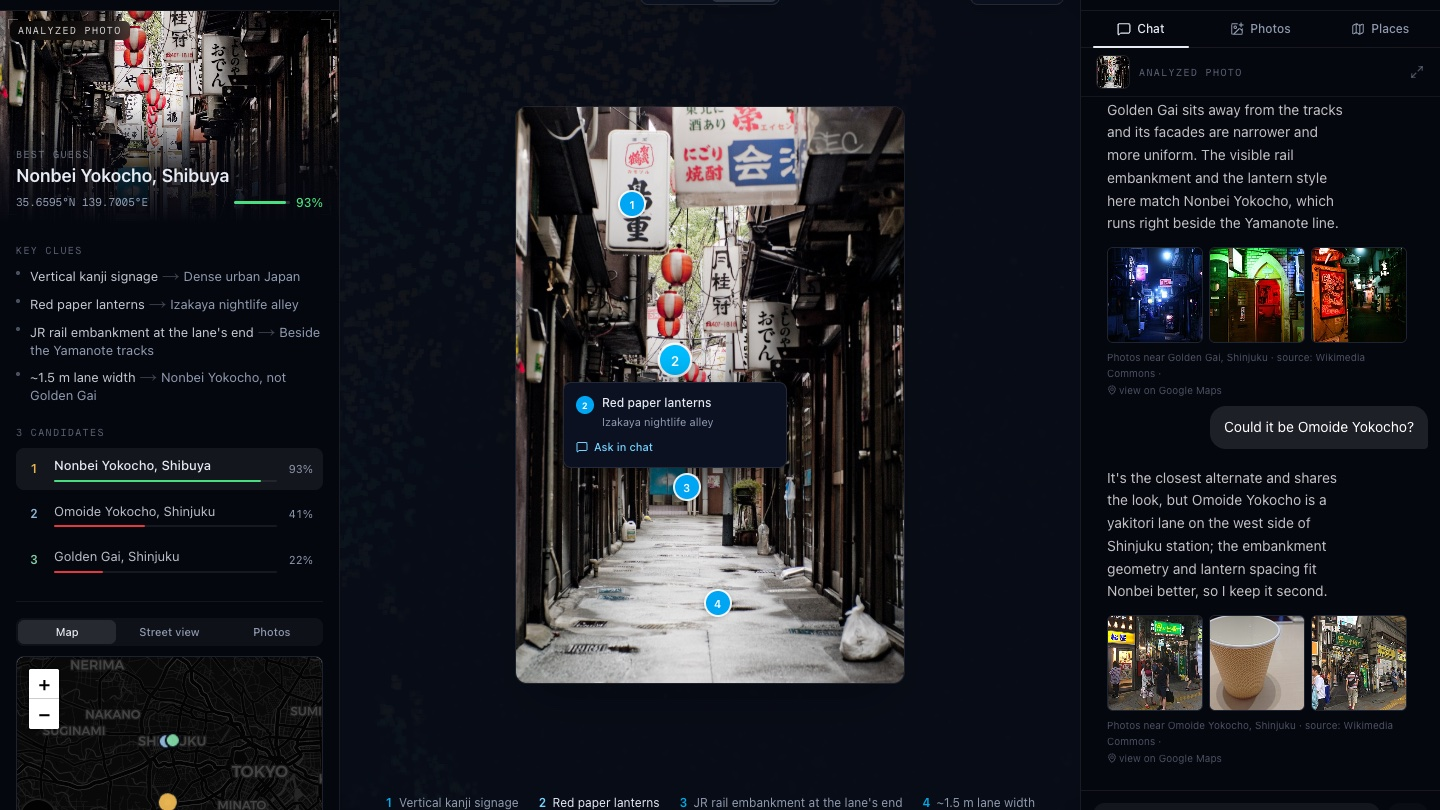
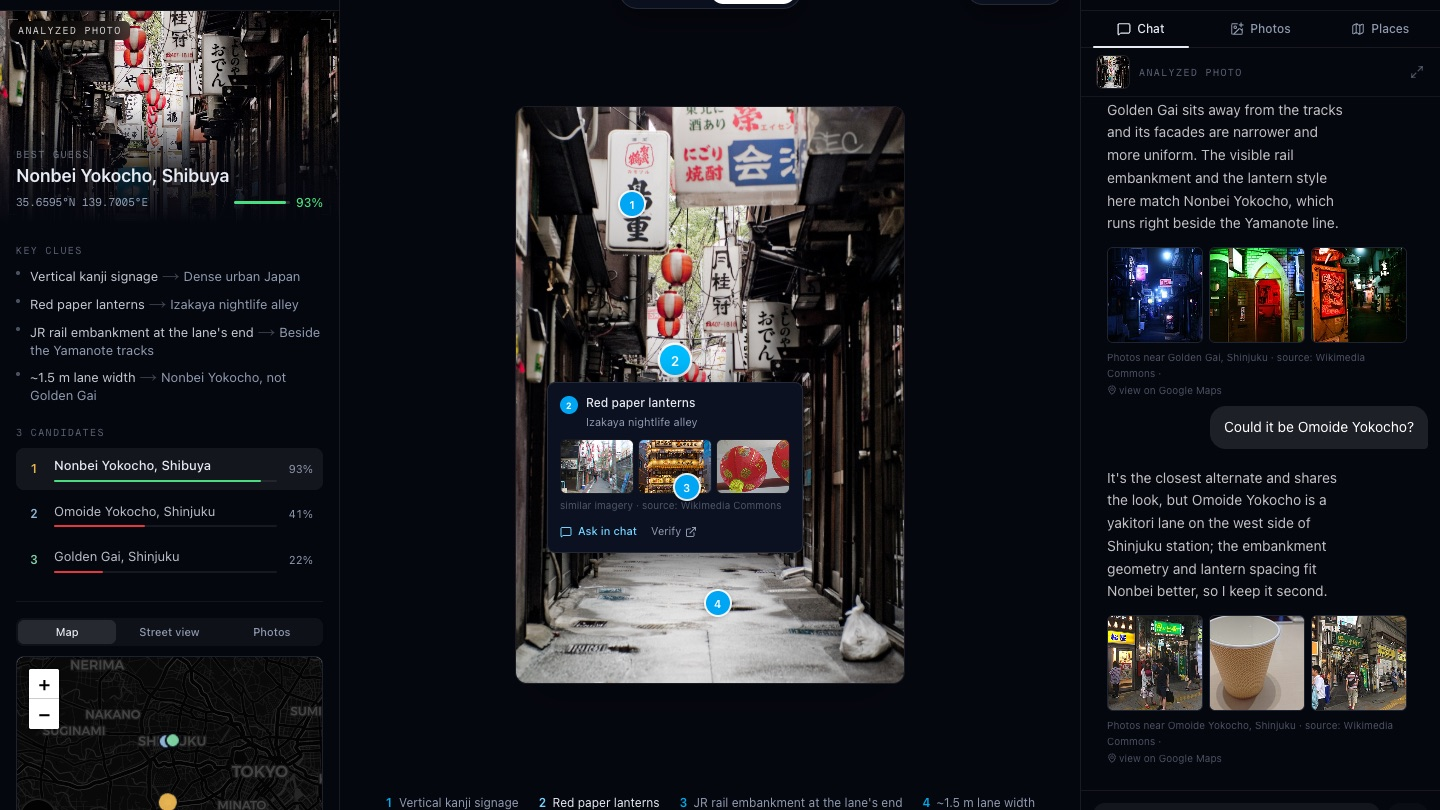
docs(readme): current pipeline description, reshot photo view

Changed region(s): [[0.375, 0.463, 0.5625, 0.7407], [0.5, 0.0, 0.5625, 0.0309]]

diff --git a/README.md b/README.md
@@ -13,7 +13,7 @@ AI-powered geolocation: upload a photo and the system predicts where it was take
 
 ![Example reasoning: the model's thinking streamed live, with sourced reference photos backing each candidate and the predicted location on the globe](images/ex1.png)
 
-![Photo view: every clue the model used is pinned on the analyzed image; users drop their own pins and ask about them, and clue mentions in chat link back to the pins](images/annotate.png)
+![Photo view: every clue the model used is pinned on the analyzed image with sourced reference imagery per clue; users drop their own pins and ask about them, and clue mentions in chat link back to the pins](images/annotate.png)
 
 ![Your world: past sessions pinned and linked on an interactive globe, with a session rail to jump back in](images/canvas.png)
 
@@ -28,9 +28,9 @@ rainbolt.ai is a retrieval-augmented geolocation pipeline. A photo flows through
 3. Pinecone retrieval. The embedding is queried against a Pinecone index that holds two namespaces:
    - `images`: CLIP embeddings of geotagged reference images, each carrying `{latitude, longitude}` metadata. Nearest neighbors give candidate coordinates. Image-to-image similarity scores are high (~0.7).
    - `features`: CLIP text embeddings of GeoGuessr-style clues (bollards, road-line styles, license plates, scripts, Street View car metadata, and so on), stored as `metadata['text']`. The image embedding is matched against these text vectors to surface human-readable evidence. Image-to-text scores are low (~0.19 to 0.28), so a lower threshold (~0.22) is used for this namespace.
-4. Gemini reasoning. The candidate coordinates and matched feature clues are handed to Gemini (via LangChain, `langchain_google_genai`). Gemini reasons over the evidence, narrows the location, and explains its thinking. The reasoning is streamed token by token to the client over a WebSocket so the UI can show the model working in real time.
+4. Gemini reasoning. The candidate coordinates and matched feature clues are handed to Gemini (via LangChain, `langchain_google_genai`). Gemini reasons over the evidence, narrows the location, and explains its thinking. The reasoning is streamed token by token to the client over a WebSocket so the UI can show the model working in real time. A follow-up multimodal pass pins the strongest visual clues onto the photo itself (fractional coordinates), re-run whenever a chat exchange revises the guess. Coordinate/clue JSON is parsed defensively (strict parse, then Python-literal, then `json_repair`), and quota exhaustion on the primary model falls back to `gemini-2.5-flash-lite` with backoff, so a free-tier key degrades gracefully instead of failing.
 5. Mapillary verification. The predicted coordinates are checked against Mapillary street-level imagery to confirm and contextualize the guess.
-6. Presentation. The Next.js frontend (responsive down to phones) renders the prediction on an interactive globe and constellation view, shows the streamed reasoning with sourced photo evidence for each candidate (Wikimedia Commons geosearch), and displays the street-view imagery. The centre stage flips between the globe and an annotated Photo view: every clue the model used is pinned on the image, clue mentions in chat are links that jump to their pin, and users can drop their own pins - notes ride along as context so the model can answer questions about them. A Places tab lists the ranked candidates alongside the user's own geocoded hunches (OpenStreetMap Nominatim) for comparison.
+6. Presentation. The Next.js frontend (responsive down to phones) renders the prediction on an interactive globe and constellation view, shows the streamed reasoning with sourced photo evidence for each candidate (Wikimedia Commons geosearch), and displays the street-view imagery. The centre stage flips between the globe and an annotated Photo view: every clue the model used is pinned on the image, opening a pin shows sourced reference imagery of that clue (Commons search) plus a verify link, clue mentions in chat are links that jump to their pin, and users can drop their own pins - notes ride along as context so the model can answer questions about them. A Places tab lists the ranked candidates alongside the user's own geocoded hunches (OpenStreetMap Nominatim) for comparison. Guests can run full sessions without an account (unsaved), seeded from bundled sample photos.
 
 ## Tech stack
 
